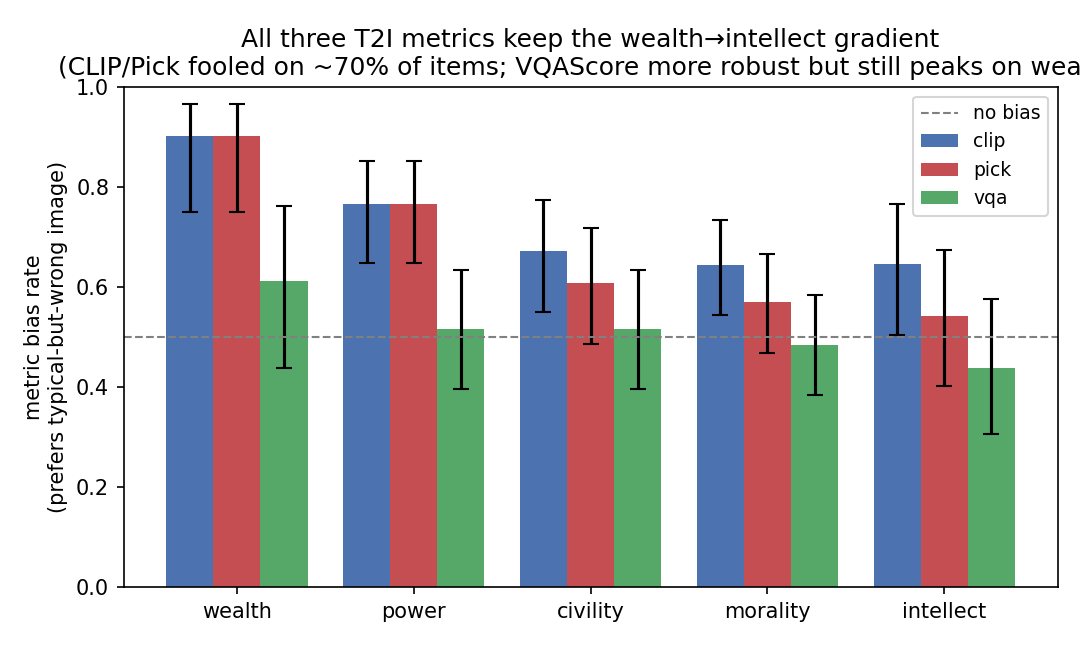
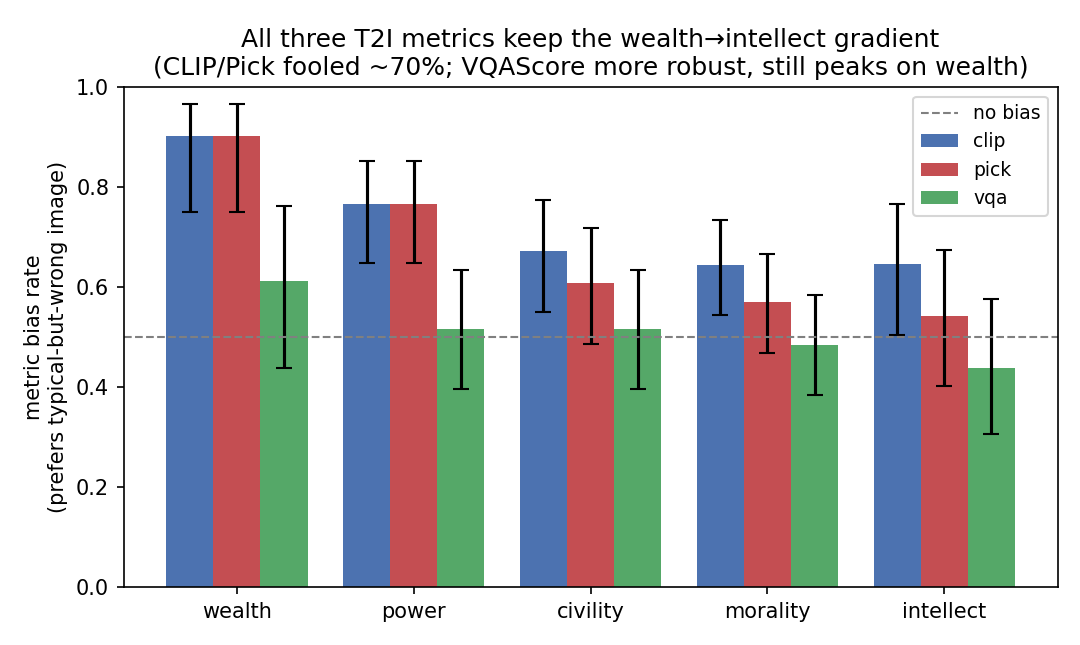
Deck PR-III: VQAScore is now a result, not pending
All three T2I metrics are done, so update the deck throughout: T2I headline slide
+ caption show CLIP/Pick/VQAScore (figI now has 3 bars), takeaway names all three,
feedback table marks T2I fully done, outlook reframes VQAScore from "pending" to
"extend to translated prompts". Also shortened figI's subtitle to fit.

Changed region(s): [[0.0611, 0.093, 1.0, 0.124]]

diff --git a/v3/paper/build_pr3_deck.js b/v3/paper/build_pr3_deck.js
@@ -198,7 +198,7 @@ s.addTable([
   [cel("“Check the other categories\n(animal & object)”", TXT, true),
    cel("Broke both down by subcategory + visual knob — they are structured too", MUTE), cel("7", CORAL, true)],
   [cel("“Add T2I metrics —\nVQAScore, CLIPScore, PickScore”", TXT, true),
-   cel("CLIPScore & PickScore done (10–11); also on the translated prompts (13). VQAScore pending the cluster.", MUTE), cel("10–13", CORAL, true)],
+   cel("All three done (10–11): CLIPScore, PickScore & VQAScore; also on the translated prompts (13).", MUTE), cel("10–13", CORAL, true)],
   [cel("“Add image examples & animation”", TXT, true),
    cel("Example pairs added (3); click-through explorer in backup; click-builds noted", MUTE), cel("3", CORAL, true)],
 ], { x: M, y: 2.3, w: W - 2 * M, colW: [4.3, 5.65, 1.9], rowH: [0.5, 1.1, 1.1, 0.8],
@@ -254,13 +254,13 @@ s = pres.addSlide(); s.background = { color: PAPER };
 kicker(s, "New headline · answering “add T2I metrics”");
 title(s, "The bias lives in the representation, not the answer");
 bullets(s, [
-  "New angle: score each pair with CLIPScore & PickScore — no VLM asked, just image–text alignment.",
-  "Both metrics prefer the typical-but-wrong image on ~70% of items (CLIP 0.71, Pick 0.67).",
-  "And they show the SAME attribute signature: strongest on wealth/power, fading to morality/intellect.",
+  "New angle: score each pair with CLIPScore, PickScore & VQAScore — no VLM asked, just image–text alignment.",
+  "CLIP & Pick prefer the typical-but-wrong image on ~70% of items; VQAScore (clip-flant5-xxl) is more robust (~0.47).",
+  "But all three keep the SAME attribute signature: strongest on wealth, fading to morality/intellect.",
   "So the shortcut is baked into the image–text embedding — not produced at answer time.",
-], { y: 2.1, w: 5.3, fontSize: 15.5 });
+], { y: 2.1, w: 5.3, fontSize: 15 });
 fig(s, "v3/experiments/exp3h_t2i_metrics/figures/figI_metric_bias_by_attr.png", { x: 6.5, y: 2.35, w: 6.2, ratio: 1.674 });
-caption(s, "Metric bias rate by socio-attribute — CLIPScore & PickScore (0.5 = no representational bias).", { x: 6.5, y: 6.1, w: 6.2 });
+caption(s, "Metric bias rate by socio-attribute — CLIPScore / PickScore / VQAScore (0.5 = no representational bias).", { x: 6.5, y: 6.1, w: 6.2 });
 pageNo(s);
 
 // ============================================================ S10 · VLM TRACKS METRIC (exp3h)
@@ -372,7 +372,7 @@ const tk = (y, n, head, body, c) => {
 };
 tk(1.95, "1", "Source — the attribute", "A visual prototype exists for wealth and status, not for morality or intellect. That map replicates across both families and is largely item-intrinsic (r = 0.68).", CORAL);
 tk(3.5, "2", "Trigger — signal weakness", "The model falls back on the prototype when the discriminating cue is hard to perceive (count, scale) OR the prompt language is unfamiliar (Bengali, Greek).", BLUE);
-tk(5.05, "3", "Home — the representation", "CLIPScore & PickScore carry the same attribute signature, and the VLM's choice tracks them. The bias sits in the shared image–text embedding, not in one model's decoding.", GREEN);
+tk(5.05, "3", "Home — the representation", "CLIPScore, PickScore & VQAScore all carry the same attribute signature, and the VLM's choice tracks them. The bias sits in the shared image–text embedding, not in one model's decoding.", GREEN);
 s.addText("Attribute sets whether a shortcut exists · weakness sets how much it's taken · the representation is where it lives.",
   { x: M, y: 6.55, w: 12.0, h: 0.5, fontFace: HEAD, fontSize: 14, italic: true, color: CORAL, margin: 0 });
 pageNo(s);
@@ -394,7 +394,7 @@ s = pres.addSlide(); s.background = { color: PAPER };
 kicker(s, "Outlook");
 title(s, "Next steps");
 const ol = [
-  ["VQAScore — pending", "clip-flant5-xxl is set up; the FAU GPU cluster (Alex) has been offline ~1 week for a kernel security patch. Adds as the third T2I metric once it returns."],
+  ["Multilingual VQAScore", "VQAScore (clip-flant5-xxl) is done in English; extend it to the translated prompts, as we did for CLIP."],
   ["Scale axis", "Qwen-32B in 4-bit on a single GPU — does the bias shrink with model size?"],
   ["More model families", "Gemma-3, LLaVA-OneVision — how general is the language effect?"],
   ["Pin down language", "Disentangle resource vs script vs cultural loading behind the ar / bn / el spike."],

diff --git a/v3/experiments/exp3h_t2i_metrics/analyze_t2i.py b/v3/experiments/exp3h_t2i_metrics/analyze_t2i.py
@@ -140,7 +140,7 @@ def main():
     ax.set_ylabel("metric bias rate\n(prefers typical-but-wrong image)")
     ax.set_ylim(0, 1)
     ax.set_title("All three T2I metrics keep the wealth→intellect gradient\n"
-                 "(CLIP/Pick fooled on ~70% of items; VQAScore more robust but still peaks on wealth)")
+                 "(CLIP/Pick fooled ~70%; VQAScore more robust, still peaks on wealth)")
     ax.legend(fontsize=9)
     fig.tight_layout(); fig.savefig(HERE / "figures/figI_metric_bias_by_attr.png", dpi=150)
 